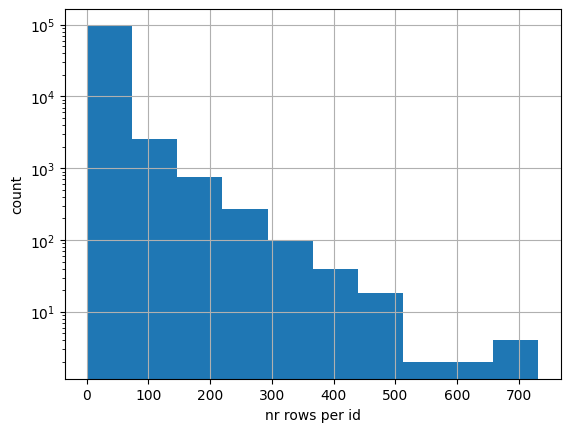
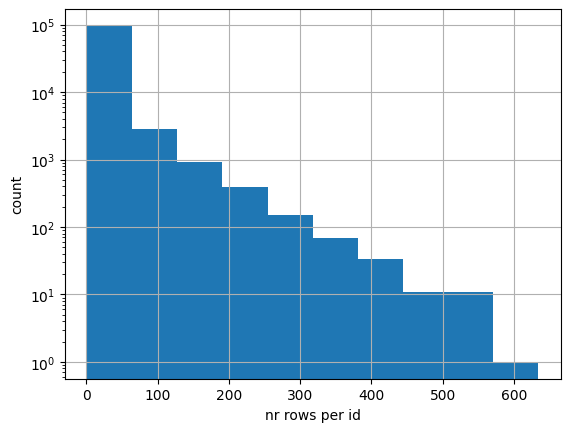
make load balancing reproducible

diff --git a/docs/posts/load_balancing_spark.html b/docs/posts/load_balancing_spark.html
@@ -357,7 +357,7 @@ gtag('config', 'G-DEDM5V9GGM', { 'anonymize_ip': true});
 <section id="create-data" class="level2">
 <h2 class="anchored" data-anchor-id="create-data">Create data</h2>
 <p>Let’s first create some artificial data with large data skew; many ‘id’ values only have a few rows and vice versa. In real life this could for example be many clients that buy a few products and few clients buy a lot of products. I use the gamma distribution to create this synthetic dataset.</p>
-<div id="1788f947-2025-4cb9-b0f6-229a8b51bc32" class="cell" data-quarto-private-1="{&quot;key&quot;:&quot;execution&quot;,&quot;value&quot;:{&quot;iopub.execute_input&quot;:&quot;2025-12-14T13:15:55.019164Z&quot;,&quot;iopub.status.busy&quot;:&quot;2025-12-14T13:15:55.018999Z&quot;,&quot;iopub.status.idle&quot;:&quot;2025-12-14T13:15:57.083873Z&quot;,&quot;shell.execute_reply&quot;:&quot;2025-12-14T13:15:57.083375Z&quot;,&quot;shell.execute_reply.started&quot;:&quot;2025-12-14T13:15:55.019145Z&quot;}}" data-execution_count="4">
+<div id="1788f947-2025-4cb9-b0f6-229a8b51bc32" class="cell" data-quarto-private-1="{&quot;key&quot;:&quot;execution&quot;,&quot;value&quot;:{&quot;iopub.execute_input&quot;:&quot;2026-04-23T12:18:12.501378Z&quot;,&quot;iopub.status.busy&quot;:&quot;2026-04-23T12:18:12.501160Z&quot;,&quot;iopub.status.idle&quot;:&quot;2026-04-23T12:18:13.192596Z&quot;,&quot;shell.execute_reply&quot;:&quot;2026-04-23T12:18:13.191843Z&quot;,&quot;shell.execute_reply.started&quot;:&quot;2026-04-23T12:18:12.501362Z&quot;}}" data-execution_count="30">
 <div class="code-copy-outer-scaffold"><div class="sourceCode cell-code" id="cb1"><pre class="sourceCode python code-with-copy"><code class="sourceCode python"><span id="cb1-1"><a href="#cb1-1" aria-hidden="true" tabindex="-1"></a><span class="im">import</span> matplotlib.pyplot <span class="im">as</span> plt</span>
 <span id="cb1-2"><a href="#cb1-2" aria-hidden="true" tabindex="-1"></a><span class="im">from</span> scipy.stats <span class="im">import</span> gamma</span>
 <span id="cb1-3"><a href="#cb1-3" aria-hidden="true" tabindex="-1"></a></span>
@@ -367,7 +367,7 @@ gtag('config', 'G-DEDM5V9GGM', { 'anonymize_ip': true});
 <span id="cb1-7"><a href="#cb1-7" aria-hidden="true" tabindex="-1"></a>                  columns<span class="op">=</span>[<span class="st">'id'</span>])</span></code></pre></div><button title="Copy to Clipboard" class="code-copy-button"><i class="bi"></i></button></div>
 </div>
 <p>Below we can see the distribution of the number of rows per id. Note that the vertical axis is in log scale.</p>
-<div id="b0f46354-f908-454f-9a21-15af949abc16" class="cell" data-quarto-private-1="{&quot;key&quot;:&quot;execution&quot;,&quot;value&quot;:{&quot;iopub.execute_input&quot;:&quot;2025-12-14T13:15:57.086450Z&quot;,&quot;iopub.status.busy&quot;:&quot;2025-12-14T13:15:57.086142Z&quot;,&quot;iopub.status.idle&quot;:&quot;2025-12-14T13:15:57.601090Z&quot;,&quot;shell.execute_reply&quot;:&quot;2025-12-14T13:15:57.600709Z&quot;,&quot;shell.execute_reply.started&quot;:&quot;2025-12-14T13:15:57.086433Z&quot;}}" data-execution_count="5">
+<div id="b0f46354-f908-454f-9a21-15af949abc16" class="cell" data-quarto-private-1="{&quot;key&quot;:&quot;execution&quot;,&quot;value&quot;:{&quot;iopub.execute_input&quot;:&quot;2026-04-23T12:18:13.193943Z&quot;,&quot;iopub.status.busy&quot;:&quot;2026-04-23T12:18:13.193765Z&quot;,&quot;iopub.status.idle&quot;:&quot;2026-04-23T12:18:13.639817Z&quot;,&quot;shell.execute_reply&quot;:&quot;2026-04-23T12:18:13.638283Z&quot;,&quot;shell.execute_reply.started&quot;:&quot;2026-04-23T12:18:13.193927Z&quot;}}" data-execution_count="31">
 <div class="cell-output cell-output-display">
 <div>
 <figure class="figure">
@@ -377,17 +377,17 @@ gtag('config', 'G-DEDM5V9GGM', { 'anonymize_ip': true});
 </div>
 </div>
 <p>Now we create a Spark dataframe from this Pandas dataframe and repartition it to 200 partitions, Spark’s default value when doing transformations.</p>
-<div id="24696a47-9391-47ec-9352-94da20456f76" class="cell" data-quarto-private-1="{&quot;key&quot;:&quot;execution&quot;,&quot;value&quot;:{&quot;iopub.execute_input&quot;:&quot;2025-12-14T14:21:40.036022Z&quot;,&quot;iopub.status.busy&quot;:&quot;2025-12-14T14:21:40.035526Z&quot;,&quot;iopub.status.idle&quot;:&quot;2025-12-14T14:21:49.179953Z&quot;,&quot;shell.execute_reply&quot;:&quot;2025-12-14T14:21:49.179424Z&quot;,&quot;shell.execute_reply.started&quot;:&quot;2025-12-14T14:21:40.035983Z&quot;}}" data-execution_count="52">
+<div id="24696a47-9391-47ec-9352-94da20456f76" class="cell" data-quarto-private-1="{&quot;key&quot;:&quot;execution&quot;,&quot;value&quot;:{&quot;iopub.execute_input&quot;:&quot;2026-04-23T12:18:13.640900Z&quot;,&quot;iopub.status.busy&quot;:&quot;2026-04-23T12:18:13.640734Z&quot;,&quot;iopub.status.idle&quot;:&quot;2026-04-23T12:18:22.989286Z&quot;,&quot;shell.execute_reply&quot;:&quot;2026-04-23T12:18:22.987225Z&quot;,&quot;shell.execute_reply.started&quot;:&quot;2026-04-23T12:18:13.640884Z&quot;}}" data-execution_count="32">
 <div class="code-copy-outer-scaffold"><div class="sourceCode cell-code" id="cb2"><pre class="sourceCode python code-with-copy"><code class="sourceCode python"><span id="cb2-1"><a href="#cb2-1" aria-hidden="true" tabindex="-1"></a>sdf <span class="op">=</span> spark.createDataFrame(df)</span>
 <span id="cb2-2"><a href="#cb2-2" aria-hidden="true" tabindex="-1"></a>sdf <span class="op">=</span> sdf.repartition(<span class="dv">200</span>)</span></code></pre></div><button title="Copy to Clipboard" class="code-copy-button"><i class="bi"></i></button></div>
 </div>
 <p>Let’s see how the number of partitions per id are distributed. The function <code>spark_partition_id</code> gives the partition id for each row. The histogram below shows that there are quite some ids (clients) that have their rows (products) divided over many partitions. When doing a groupby or join operation on the id key, a lot of shuffling is required. It is more efficient if we could divide the rows such that the ones with the same id value are in the same partition.</p>
-<div id="16330202-7c50-48b8-bc1d-ac1efa8ae079" class="cell" data-quarto-private-1="{&quot;key&quot;:&quot;execution&quot;,&quot;value&quot;:{&quot;iopub.execute_input&quot;:&quot;2025-12-14T14:21:49.181042Z&quot;,&quot;iopub.status.busy&quot;:&quot;2025-12-14T14:21:49.180898Z&quot;,&quot;iopub.status.idle&quot;:&quot;2025-12-14T14:21:49.206588Z&quot;,&quot;shell.execute_reply&quot;:&quot;2025-12-14T14:21:49.206210Z&quot;,&quot;shell.execute_reply.started&quot;:&quot;2025-12-14T14:21:49.181027Z&quot;}}" data-execution_count="53">
+<div id="16330202-7c50-48b8-bc1d-ac1efa8ae079" class="cell" data-quarto-private-1="{&quot;key&quot;:&quot;execution&quot;,&quot;value&quot;:{&quot;iopub.execute_input&quot;:&quot;2026-04-23T12:18:22.990848Z&quot;,&quot;iopub.status.busy&quot;:&quot;2026-04-23T12:18:22.990636Z&quot;,&quot;iopub.status.idle&quot;:&quot;2026-04-23T12:18:23.005082Z&quot;,&quot;shell.execute_reply&quot;:&quot;2026-04-23T12:18:23.004578Z&quot;,&quot;shell.execute_reply.started&quot;:&quot;2026-04-23T12:18:22.990828Z&quot;}}" data-execution_count="33">
 <div class="code-copy-outer-scaffold"><div class="sourceCode cell-code" id="cb3"><pre class="sourceCode python code-with-copy"><code class="sourceCode python"><span id="cb3-1"><a href="#cb3-1" aria-hidden="true" tabindex="-1"></a><span class="im">from</span> pyspark.sql <span class="im">import</span> functions <span class="im">as</span> F</span>
 <span id="cb3-2"><a href="#cb3-2" aria-hidden="true" tabindex="-1"></a></span>
 <span id="cb3-3"><a href="#cb3-3" aria-hidden="true" tabindex="-1"></a>sdf <span class="op">=</span> sdf.withColumn(<span class="st">'partition_id'</span>, F.spark_partition_id())</span></code></pre></div><button title="Copy to Clipboard" class="code-copy-button"><i class="bi"></i></button></div>
 </div>
-<div id="5aa72574-4880-4437-8190-5698c898d8bb" class="cell" data-quarto-private-1="{&quot;key&quot;:&quot;execution&quot;,&quot;value&quot;:{&quot;iopub.execute_input&quot;:&quot;2025-12-14T13:16:31.300392Z&quot;,&quot;iopub.status.busy&quot;:&quot;2025-12-14T13:16:31.300196Z&quot;,&quot;iopub.status.idle&quot;:&quot;2025-12-14T13:16:31.510057Z&quot;,&quot;shell.execute_reply&quot;:&quot;2025-12-14T13:16:31.509664Z&quot;,&quot;shell.execute_reply.started&quot;:&quot;2025-12-14T13:16:31.300371Z&quot;}}" data-execution_count="9">
+<div id="5aa72574-4880-4437-8190-5698c898d8bb" class="cell" data-quarto-private-1="{&quot;key&quot;:&quot;execution&quot;,&quot;value&quot;:{&quot;iopub.execute_input&quot;:&quot;2026-04-23T12:18:33.950523Z&quot;,&quot;iopub.status.busy&quot;:&quot;2026-04-23T12:18:33.949349Z&quot;,&quot;iopub.status.idle&quot;:&quot;2026-04-23T12:18:34.166272Z&quot;,&quot;shell.execute_reply&quot;:&quot;2026-04-23T12:18:34.165914Z&quot;,&quot;shell.execute_reply.started&quot;:&quot;2026-04-23T12:18:33.950500Z&quot;}}" data-execution_count="35">
 <div class="cell-output cell-output-display">
 <div>
 <figure class="figure">
@@ -401,38 +401,38 @@ gtag('config', 'G-DEDM5V9GGM', { 'anonymize_ip': true});
 <h2 class="anchored" data-anchor-id="load-balancing">Load balancing</h2>
 <p>To divide rows over the partitions such that partitions are equally large and rows with the same id are on the same partion as much as possible, we use a greedy load balancing algorithm. A heap queue can be used to implement such algorithm. A heap is a data structure that efficiently keeps its elements sorted. If you want to learn more about heaps, I recommend a clear explanation in this <a href="https://www.youtube.com/watch?v=XycnarZEBvQ">video</a>.</p>
 <p>In Python, heap queues are implemented by the <code>heapq</code> library. Python distributions like Anaconda include <code>heapq</code> so most likely you don’t need to install it yourself as you already have it.</p>
-<div id="2b975302-228a-4d49-977d-b22b8f1a2460" class="cell" data-quarto-private-1="{&quot;key&quot;:&quot;execution&quot;,&quot;value&quot;:{&quot;iopub.execute_input&quot;:&quot;2025-12-14T13:21:24.232007Z&quot;,&quot;iopub.status.busy&quot;:&quot;2025-12-14T13:21:24.229985Z&quot;,&quot;iopub.status.idle&quot;:&quot;2025-12-14T13:21:24.252384Z&quot;,&quot;shell.execute_reply&quot;:&quot;2025-12-14T13:21:24.251248Z&quot;,&quot;shell.execute_reply.started&quot;:&quot;2025-12-14T13:21:24.231922Z&quot;}}" data-execution_count="10">
+<div id="2b975302-228a-4d49-977d-b22b8f1a2460" class="cell" data-quarto-private-1="{&quot;key&quot;:&quot;execution&quot;,&quot;value&quot;:{&quot;iopub.execute_input&quot;:&quot;2026-04-23T12:18:34.166893Z&quot;,&quot;iopub.status.busy&quot;:&quot;2026-04-23T12:18:34.166774Z&quot;,&quot;iopub.status.idle&quot;:&quot;2026-04-23T12:18:34.169000Z&quot;,&quot;shell.execute_reply&quot;:&quot;2026-04-23T12:18:34.168681Z&quot;,&quot;shell.execute_reply.started&quot;:&quot;2026-04-23T12:18:34.166880Z&quot;}}" data-execution_count="36">
 <div class="code-copy-outer-scaffold"><div class="sourceCode cell-code" id="cb4"><pre class="sourceCode python code-with-copy"><code class="sourceCode python"><span id="cb4-1"><a href="#cb4-1" aria-hidden="true" tabindex="-1"></a><span class="im">import</span> heapq</span></code></pre></div><button title="Copy to Clipboard" class="code-copy-button"><i class="bi"></i></button></div>
 </div>
 <p>First, we need to count the number of rows per id. We collect the results to local memory as this is the data we’re going to use for our heap:</p>
-<div id="996a3bc7-b040-49da-b863-f36497f483e1" class="cell" data-quarto-private-1="{&quot;key&quot;:&quot;execution&quot;,&quot;value&quot;:{&quot;iopub.execute_input&quot;:&quot;2025-12-14T13:21:26.035371Z&quot;,&quot;iopub.status.busy&quot;:&quot;2025-12-14T13:21:26.034883Z&quot;,&quot;iopub.status.idle&quot;:&quot;2025-12-14T13:21:39.356082Z&quot;,&quot;shell.execute_reply&quot;:&quot;2025-12-14T13:21:39.355678Z&quot;,&quot;shell.execute_reply.started&quot;:&quot;2025-12-14T13:21:26.035332Z&quot;}}" data-execution_count="11">
+<div id="996a3bc7-b040-49da-b863-f36497f483e1" class="cell" data-quarto-private-1="{&quot;key&quot;:&quot;execution&quot;,&quot;value&quot;:{&quot;iopub.execute_input&quot;:&quot;2026-04-23T12:18:34.169848Z&quot;,&quot;iopub.status.busy&quot;:&quot;2026-04-23T12:18:34.169732Z&quot;,&quot;iopub.status.idle&quot;:&quot;2026-04-23T12:18:42.654050Z&quot;,&quot;shell.execute_reply&quot;:&quot;2026-04-23T12:18:42.653649Z&quot;,&quot;shell.execute_reply.started&quot;:&quot;2026-04-23T12:18:34.169835Z&quot;}}" data-execution_count="37">
 <div class="code-copy-outer-scaffold"><div class="sourceCode cell-code" id="cb5"><pre class="sourceCode python code-with-copy"><code class="sourceCode python"><span id="cb5-1"><a href="#cb5-1" aria-hidden="true" tabindex="-1"></a>id_counts <span class="op">=</span> sdf.groupby(<span class="st">'id'</span>).count().collect()</span>
 <span id="cb5-2"><a href="#cb5-2" aria-hidden="true" tabindex="-1"></a>id_counts[:<span class="dv">3</span>]</span></code></pre></div><button title="Copy to Clipboard" class="code-copy-button"><i class="bi"></i></button></div>
 <div class="cell-output cell-output-stderr">
 <pre><code>                                                                                </code></pre>
 </div>
-<div class="cell-output cell-output-display" data-execution_count="11">
-<pre><code>[Row(id='2088', count=127),
- Row(id='8304', count=113),
- Row(id='7252', count=95)]</code></pre>
+<div class="cell-output cell-output-display" data-execution_count="37">
+<pre><code>[Row(id='3606', count=306),
+ Row(id='9009', count=24),
+ Row(id='11078', count=180)]</code></pre>
 </div>
 </div>
-<p>For the load balancing algoritm, we want to start with the id that has most rows. Therefore we sort the array of id counts in descending order:</p>
-<div id="5ff5481b-4c31-4d31-962d-8b5ffbf6d584" class="cell" data-quarto-private-1="{&quot;key&quot;:&quot;execution&quot;,&quot;value&quot;:{&quot;iopub.execute_input&quot;:&quot;2025-12-14T13:26:25.785814Z&quot;,&quot;iopub.status.busy&quot;:&quot;2025-12-14T13:26:25.783914Z&quot;,&quot;iopub.status.idle&quot;:&quot;2025-12-14T13:26:25.891975Z&quot;,&quot;shell.execute_reply&quot;:&quot;2025-12-14T13:26:25.891472Z&quot;,&quot;shell.execute_reply.started&quot;:&quot;2025-12-14T13:26:25.785714Z&quot;}}" data-scrolled="true" data-execution_count="17">
-<div class="code-copy-outer-scaffold"><div class="sourceCode cell-code" id="cb8"><pre class="sourceCode python code-with-copy"><code class="sourceCode python"><span id="cb8-1"><a href="#cb8-1" aria-hidden="true" tabindex="-1"></a>id_counts_sorted <span class="op">=</span> <span class="bu">sorted</span>(id_counts, key<span class="op">=</span><span class="kw">lambda</span> x: x[<span class="st">'count'</span>], reverse<span class="op">=</span><span class="va">True</span>)</span></code></pre></div><button title="Copy to Clipboard" class="code-copy-button"><i class="bi"></i></button></div>
+<p>For the load balancing algoritm, we want to start with the id that has most rows. Therefore we sort the array of id counts in descending order. We add the ‘id’ column when sorting to assure reproducible results across runs; there can be more IDs with the same number of rows:</p>
+<div id="5ff5481b-4c31-4d31-962d-8b5ffbf6d584" class="cell" data-quarto-private-1="{&quot;key&quot;:&quot;execution&quot;,&quot;value&quot;:{&quot;iopub.execute_input&quot;:&quot;2026-04-23T12:18:42.654884Z&quot;,&quot;iopub.status.busy&quot;:&quot;2026-04-23T12:18:42.654739Z&quot;,&quot;iopub.status.idle&quot;:&quot;2026-04-23T12:18:42.936409Z&quot;,&quot;shell.execute_reply&quot;:&quot;2026-04-23T12:18:42.935915Z&quot;,&quot;shell.execute_reply.started&quot;:&quot;2026-04-23T12:18:42.654869Z&quot;}}" data-scrolled="true" data-execution_count="38">
+<div class="code-copy-outer-scaffold"><div class="sourceCode cell-code" id="cb8"><pre class="sourceCode python code-with-copy"><code class="sourceCode python"><span id="cb8-1"><a href="#cb8-1" aria-hidden="true" tabindex="-1"></a>id_counts_sorted <span class="op">=</span> <span class="bu">sorted</span>(id_counts, key<span class="op">=</span><span class="kw">lambda</span> x: (x[<span class="st">'count'</span>], x[<span class="st">'id'</span>]), reverse<span class="op">=</span><span class="va">True</span>)</span></code></pre></div><button title="Copy to Clipboard" class="code-copy-button"><i class="bi"></i></button></div>
 </div>
 <p>Now let’s say we want to create 50 batches which we later can use for partitioning our dataframe. Each batch will be one partition. In reality it’s more likely you will use a larger number, but for visualisation purposes we limit it to 50. We create a heap where the elements are tuples containing the load as first entry and the batch number as second entry. The heap is initialised with all 50 batches having zero load.</p>
 <p>To fill the batches with ids, we loop over the ids that are now sorted from largest to smallest. With the <code>heappop</code> function we remove the element from the heap with the smallest load (first entry of the tuple) and assign it to the variables <code>load</code> and <code>batch</code>. At the start of the process all elements in the heap are equal as they’re empty. In the dictionary <code>id_to_batch</code> we keep track of which id is assigned to with batch. After this assignment is done, we use <code>heappush</code> to add the element for the current batch back to the heap, but now with the added load. We iterate over all ids.</p>
-<div id="20950112-8030-4fb2-b86a-091aa38b6c24" class="cell" data-quarto-private-1="{&quot;key&quot;:&quot;execution&quot;,&quot;value&quot;:{&quot;iopub.execute_input&quot;:&quot;2025-12-14T13:43:58.560567Z&quot;,&quot;iopub.status.busy&quot;:&quot;2025-12-14T13:43:58.559664Z&quot;,&quot;iopub.status.idle&quot;:&quot;2025-12-14T13:43:58.566675Z&quot;,&quot;shell.execute_reply&quot;:&quot;2025-12-14T13:43:58.564865Z&quot;,&quot;shell.execute_reply.started&quot;:&quot;2025-12-14T13:43:58.560491Z&quot;}}" data-execution_count="19">
+<div id="20950112-8030-4fb2-b86a-091aa38b6c24" class="cell" data-quarto-private-1="{&quot;key&quot;:&quot;execution&quot;,&quot;value&quot;:{&quot;iopub.execute_input&quot;:&quot;2026-04-23T12:18:42.937112Z&quot;,&quot;iopub.status.busy&quot;:&quot;2026-04-23T12:18:42.936973Z&quot;,&quot;iopub.status.idle&quot;:&quot;2026-04-23T12:18:42.939266Z&quot;,&quot;shell.execute_reply&quot;:&quot;2026-04-23T12:18:42.938864Z&quot;,&quot;shell.execute_reply.started&quot;:&quot;2026-04-23T12:18:42.937098Z&quot;}}" data-execution_count="39">
 <div class="code-copy-outer-scaffold"><div class="sourceCode cell-code" id="cb9"><pre class="sourceCode python code-with-copy"><code class="sourceCode python"><span id="cb9-1"><a href="#cb9-1" aria-hidden="true" tabindex="-1"></a>num_batches <span class="op">=</span> <span class="dv">50</span></span></code></pre></div><button title="Copy to Clipboard" class="code-copy-button"><i class="bi"></i></button></div>
 </div>
-<div id="0315f731-6d26-4fd9-98e4-24d9552a149c" class="cell" data-quarto-private-1="{&quot;key&quot;:&quot;execution&quot;,&quot;value&quot;:{&quot;iopub.execute_input&quot;:&quot;2025-12-14T13:43:58.744191Z&quot;,&quot;iopub.status.busy&quot;:&quot;2025-12-14T13:43:58.743608Z&quot;,&quot;iopub.status.idle&quot;:&quot;2025-12-14T13:43:58.749676Z&quot;,&quot;shell.execute_reply&quot;:&quot;2025-12-14T13:43:58.748260Z&quot;,&quot;shell.execute_reply.started&quot;:&quot;2025-12-14T13:43:58.744147Z&quot;}}" data-execution_count="20">
+<div id="0315f731-6d26-4fd9-98e4-24d9552a149c" class="cell" data-quarto-private-1="{&quot;key&quot;:&quot;execution&quot;,&quot;value&quot;:{&quot;iopub.execute_input&quot;:&quot;2026-04-23T12:18:42.941514Z&quot;,&quot;iopub.status.busy&quot;:&quot;2026-04-23T12:18:42.941358Z&quot;,&quot;iopub.status.idle&quot;:&quot;2026-04-23T12:18:42.944283Z&quot;,&quot;shell.execute_reply&quot;:&quot;2026-04-23T12:18:42.943503Z&quot;,&quot;shell.execute_reply.started&quot;:&quot;2026-04-23T12:18:42.941500Z&quot;}}" data-execution_count="40">
 <div class="code-copy-outer-scaffold"><div class="sourceCode cell-code" id="cb10"><pre class="sourceCode python code-with-copy"><code class="sourceCode python"><span id="cb10-1"><a href="#cb10-1" aria-hidden="true" tabindex="-1"></a>heap <span class="op">=</span> [(<span class="dv">0</span>,i) <span class="cf">for</span> i <span class="kw">in</span> <span class="bu">range</span>(num_batches)]</span></code></pre></div><button title="Copy to Clipboard" class="code-copy-button"><i class="bi"></i></button></div>
 </div>
-<div id="ecfac606-ccca-47a9-9506-02ae9b359c7c" class="cell" data-quarto-private-1="{&quot;key&quot;:&quot;execution&quot;,&quot;value&quot;:{&quot;iopub.execute_input&quot;:&quot;2025-12-14T13:43:58.848337Z&quot;,&quot;iopub.status.busy&quot;:&quot;2025-12-14T13:43:58.847426Z&quot;,&quot;iopub.status.idle&quot;:&quot;2025-12-14T13:43:58.853797Z&quot;,&quot;shell.execute_reply&quot;:&quot;2025-12-14T13:43:58.852559Z&quot;,&quot;shell.execute_reply.started&quot;:&quot;2025-12-14T13:43:58.848255Z&quot;}}" data-execution_count="21">
+<div id="ecfac606-ccca-47a9-9506-02ae9b359c7c" class="cell" data-quarto-private-1="{&quot;key&quot;:&quot;execution&quot;,&quot;value&quot;:{&quot;iopub.execute_input&quot;:&quot;2026-04-23T12:18:42.945103Z&quot;,&quot;iopub.status.busy&quot;:&quot;2026-04-23T12:18:42.944873Z&quot;,&quot;iopub.status.idle&quot;:&quot;2026-04-23T12:18:42.948194Z&quot;,&quot;shell.execute_reply&quot;:&quot;2026-04-23T12:18:42.947428Z&quot;,&quot;shell.execute_reply.started&quot;:&quot;2026-04-23T12:18:42.945087Z&quot;}}" data-execution_count="41">
 <div class="code-copy-outer-scaffold"><div class="sourceCode cell-code" id="cb11"><pre class="sourceCode python code-with-copy"><code class="sourceCode python"><span id="cb11-1"><a href="#cb11-1" aria-hidden="true" tabindex="-1"></a>heapq.heapify(heap)</span></code></pre></div><button title="Copy to Clipboard" class="code-copy-button"><i class="bi"></i></button></div>
 </div>
-<div id="dad2eab8-5816-4aeb-bfc5-d82b27cd20ea" class="cell" data-quarto-private-1="{&quot;key&quot;:&quot;execution&quot;,&quot;value&quot;:{&quot;iopub.execute_input&quot;:&quot;2025-12-14T13:43:59.213741Z&quot;,&quot;iopub.status.busy&quot;:&quot;2025-12-14T13:43:59.213252Z&quot;,&quot;iopub.status.idle&quot;:&quot;2025-12-14T13:43:59.401012Z&quot;,&quot;shell.execute_reply&quot;:&quot;2025-12-14T13:43:59.400565Z&quot;,&quot;shell.execute_reply.started&quot;:&quot;2025-12-14T13:43:59.213701Z&quot;}}" data-execution_count="22">
+<div id="dad2eab8-5816-4aeb-bfc5-d82b27cd20ea" class="cell" data-quarto-private-1="{&quot;key&quot;:&quot;execution&quot;,&quot;value&quot;:{&quot;iopub.execute_input&quot;:&quot;2026-04-23T12:18:42.948823Z&quot;,&quot;iopub.status.busy&quot;:&quot;2026-04-23T12:18:42.948677Z&quot;,&quot;iopub.status.idle&quot;:&quot;2026-04-23T12:18:43.138493Z&quot;,&quot;shell.execute_reply&quot;:&quot;2026-04-23T12:18:43.138049Z&quot;,&quot;shell.execute_reply.started&quot;:&quot;2026-04-23T12:18:42.948808Z&quot;}}" data-execution_count="42">
 <div class="code-copy-outer-scaffold"><div class="sourceCode cell-code" id="cb12"><pre class="sourceCode python code-with-copy"><code class="sourceCode python"><span id="cb12-1"><a href="#cb12-1" aria-hidden="true" tabindex="-1"></a>id_to_batch <span class="op">=</span> {}</span>
 <span id="cb12-2"><a href="#cb12-2" aria-hidden="true" tabindex="-1"></a><span class="cf">for</span> row <span class="kw">in</span> id_counts_sorted:</span>
 <span id="cb12-3"><a href="#cb12-3" aria-hidden="true" tabindex="-1"></a>    count <span class="op">=</span> row[<span class="st">'count'</span>]</span>
@@ -444,16 +444,16 @@ gtag('config', 'G-DEDM5V9GGM', { 'anonymize_ip': true});
 <p>The animation below shows how each of the 50 batches is filled until all ids are assigned.</p>
 <p><img src="load_balancing_animiation.gif" class="img-fluid"></p>
 <p>Let’s now create a Spark dataframe from the load balancing algorithm result and join it to the original dataframe. This adds the ‘batch’ column that we can use to repartition the dataframe.</p>
-<div id="e3c82090-f893-45be-9e07-49b8c2254a82" class="cell" data-quarto-private-1="{&quot;key&quot;:&quot;execution&quot;,&quot;value&quot;:{&quot;iopub.execute_input&quot;:&quot;2025-12-14T13:46:50.499381Z&quot;,&quot;iopub.status.busy&quot;:&quot;2025-12-14T13:46:50.498890Z&quot;,&quot;iopub.status.idle&quot;:&quot;2025-12-14T13:46:51.624707Z&quot;,&quot;shell.execute_reply&quot;:&quot;2025-12-14T13:46:51.624283Z&quot;,&quot;shell.execute_reply.started&quot;:&quot;2025-12-14T13:46:50.499341Z&quot;}}" data-execution_count="36">
+<div id="e3c82090-f893-45be-9e07-49b8c2254a82" class="cell" data-quarto-private-1="{&quot;key&quot;:&quot;execution&quot;,&quot;value&quot;:{&quot;iopub.execute_input&quot;:&quot;2026-04-23T12:18:43.139103Z&quot;,&quot;iopub.status.busy&quot;:&quot;2026-04-23T12:18:43.138972Z&quot;,&quot;iopub.status.idle&quot;:&quot;2026-04-23T12:18:44.335226Z&quot;,&quot;shell.execute_reply&quot;:&quot;2026-04-23T12:18:44.334825Z&quot;,&quot;shell.execute_reply.started&quot;:&quot;2026-04-23T12:18:43.139089Z&quot;}}" data-execution_count="43">
 <div class="code-copy-outer-scaffold"><div class="sourceCode cell-code" id="cb13"><pre class="sourceCode python code-with-copy"><code class="sourceCode python"><span id="cb13-1"><a href="#cb13-1" aria-hidden="true" tabindex="-1"></a>id_to_batch_sdf <span class="op">=</span> spark.createDataFrame(<span class="bu">list</span>(<span class="bu">zip</span>(id_to_batch.keys(),</span>
 <span id="cb13-2"><a href="#cb13-2" aria-hidden="true" tabindex="-1"></a>                                                 id_to_batch.values())),</span>
 <span id="cb13-3"><a href="#cb13-3" aria-hidden="true" tabindex="-1"></a>                                        schema<span class="op">=</span>[<span class="st">'id'</span>, <span class="st">'batch'</span>])</span></code></pre></div><button title="Copy to Clipboard" class="code-copy-button"><i class="bi"></i></button></div>
 </div>
-<div id="085555fc-38b4-4088-a1b4-abcf41aeb745" class="cell" data-quarto-private-1="{&quot;key&quot;:&quot;execution&quot;,&quot;value&quot;:{&quot;iopub.execute_input&quot;:&quot;2025-12-14T13:46:51.625655Z&quot;,&quot;iopub.status.busy&quot;:&quot;2025-12-14T13:46:51.625533Z&quot;,&quot;iopub.status.idle&quot;:&quot;2025-12-14T13:46:51.716511Z&quot;,&quot;shell.execute_reply&quot;:&quot;2025-12-14T13:46:51.716067Z&quot;,&quot;shell.execute_reply.started&quot;:&quot;2025-12-14T13:46:51.625642Z&quot;}}" data-execution_count="37">
+<div id="085555fc-38b4-4088-a1b4-abcf41aeb745" class="cell" data-quarto-private-1="{&quot;key&quot;:&quot;execution&quot;,&quot;value&quot;:{&quot;iopub.execute_input&quot;:&quot;2026-04-23T12:18:44.336036Z&quot;,&quot;iopub.status.busy&quot;:&quot;2026-04-23T12:18:44.335893Z&quot;,&quot;iopub.status.idle&quot;:&quot;2026-04-23T12:18:44.364141Z&quot;,&quot;shell.execute_reply&quot;:&quot;2026-04-23T12:18:44.363729Z&quot;,&quot;shell.execute_reply.started&quot;:&quot;2026-04-23T12:18:44.336022Z&quot;}}" data-execution_count="44">
 <div class="code-copy-outer-scaffold"><div class="sourceCode cell-code" id="cb14"><pre class="sourceCode python code-with-copy"><code class="sourceCode python"><span id="cb14-1"><a href="#cb14-1" aria-hidden="true" tabindex="-1"></a>sdf_with_batch <span class="op">=</span> sdf.join(id_to_batch_sdf, on<span class="op">=</span><span class="st">'id'</span>)</span></code></pre></div><button title="Copy to Clipboard" class="code-copy-button"><i class="bi"></i></button></div>
 </div>
 <p>First, we verify that we achieved our goals: equal size of the partitions and same ids (as much as possible) in the same batch (partition). I show below the all batches are indeed of equal size.</p>
-<div id="dd05c335-c7ba-494a-92f9-5ccb7597a557" class="cell" data-quarto-private-1="{&quot;key&quot;:&quot;execution&quot;,&quot;value&quot;:{&quot;iopub.execute_input&quot;:&quot;2025-12-14T13:47:55.703337Z&quot;,&quot;iopub.status.busy&quot;:&quot;2025-12-14T13:47:55.702726Z&quot;,&quot;iopub.status.idle&quot;:&quot;2025-12-14T13:48:07.146133Z&quot;,&quot;shell.execute_reply&quot;:&quot;2025-12-14T13:48:07.145080Z&quot;,&quot;shell.execute_reply.started&quot;:&quot;2025-12-14T13:47:55.703292Z&quot;}}" data-execution_count="43">
+<div id="dd05c335-c7ba-494a-92f9-5ccb7597a557" class="cell" data-quarto-private-1="{&quot;key&quot;:&quot;execution&quot;,&quot;value&quot;:{&quot;iopub.execute_input&quot;:&quot;2026-04-23T12:18:44.364758Z&quot;,&quot;iopub.status.busy&quot;:&quot;2026-04-23T12:18:44.364636Z&quot;,&quot;iopub.status.idle&quot;:&quot;2026-04-23T12:18:52.690666Z&quot;,&quot;shell.execute_reply&quot;:&quot;2026-04-23T12:18:52.689878Z&quot;,&quot;shell.execute_reply.started&quot;:&quot;2026-04-23T12:18:44.364744Z&quot;}}" data-execution_count="45">
 <div class="code-copy-outer-scaffold"><div class="sourceCode cell-code" id="cb15"><pre class="sourceCode python code-with-copy"><code class="sourceCode python"><span id="cb15-1"><a href="#cb15-1" aria-hidden="true" tabindex="-1"></a>(sdf_with_batch.groupby(<span class="st">'batch'</span>).count()</span>
 <span id="cb15-2"><a href="#cb15-2" aria-hidden="true" tabindex="-1"></a>    .select(F.<span class="bu">min</span>(<span class="st">'count'</span>), F.<span class="bu">max</span>(<span class="st">'count'</span>))</span>
 <span id="cb15-3"><a href="#cb15-3" aria-hidden="true" tabindex="-1"></a>    .show())</span></code></pre></div><button title="Copy to Clipboard" class="code-copy-button"><i class="bi"></i></button></div>
@@ -464,13 +464,13 @@ gtag('config', 'G-DEDM5V9GGM', { 'anonymize_ip': true});
 <pre><code>+----------+----------+
 |min(count)|max(count)|
 +----------+----------+
-|     21311|     21311|
+|     21493|     21494|
 +----------+----------+
 </code></pre>
 </div>
 </div>
 <p>Moreover, we also see all ids are assigned to only a single batch.</p>
-<div id="80e6723b-015c-4438-b430-ec9ffb15850c" class="cell" data-quarto-private-1="{&quot;key&quot;:&quot;execution&quot;,&quot;value&quot;:{&quot;iopub.execute_input&quot;:&quot;2025-12-14T13:48:18.759847Z&quot;,&quot;iopub.status.busy&quot;:&quot;2025-12-14T13:48:18.759191Z&quot;,&quot;iopub.status.idle&quot;:&quot;2025-12-14T13:48:28.540090Z&quot;,&quot;shell.execute_reply&quot;:&quot;2025-12-14T13:48:28.537764Z&quot;,&quot;shell.execute_reply.started&quot;:&quot;2025-12-14T13:48:18.759749Z&quot;}}" data-execution_count="45">
+<div id="80e6723b-015c-4438-b430-ec9ffb15850c" class="cell" data-quarto-private-1="{&quot;key&quot;:&quot;execution&quot;,&quot;value&quot;:{&quot;iopub.execute_input&quot;:&quot;2026-04-23T12:18:52.692226Z&quot;,&quot;iopub.status.busy&quot;:&quot;2026-04-23T12:18:52.691959Z&quot;,&quot;iopub.status.idle&quot;:&quot;2026-04-23T12:19:01.329234Z&quot;,&quot;shell.execute_reply&quot;:&quot;2026-04-23T12:19:01.328341Z&quot;,&quot;shell.execute_reply.started&quot;:&quot;2026-04-23T12:18:52.692208Z&quot;}}" data-execution_count="46">
 <div class="code-copy-outer-scaffold"><div class="sourceCode cell-code" id="cb18"><pre class="sourceCode python code-with-copy"><code class="sourceCode python"><span id="cb18-1"><a href="#cb18-1" aria-hidden="true" tabindex="-1"></a>(sdf_with_batch.groupby(<span class="st">'id'</span>)</span>
 <span id="cb18-2"><a href="#cb18-2" aria-hidden="true" tabindex="-1"></a>    .agg(F.countDistinct(<span class="st">'batch'</span>).alias(<span class="st">'n_unique_batches'</span>))</span>
 <span id="cb18-3"><a href="#cb18-3" aria-hidden="true" tabindex="-1"></a>    .select(F.<span class="bu">min</span>(<span class="st">'n_unique_batches'</span>), F.<span class="bu">max</span>(<span class="st">'n_unique_batches'</span>))</span>
@@ -493,7 +493,7 @@ gtag('config', 'G-DEDM5V9GGM', { 'anonymize_ip': true});
 </section>
 <section id="all-in-one-go" class="level2">
 <h2 class="anchored" data-anchor-id="all-in-one-go">All in one go</h2>
-<div id="d45b9276-f808-4596-a172-88ba9d1a4e00" class="cell" data-quarto-private-1="{&quot;key&quot;:&quot;execution&quot;,&quot;value&quot;:{&quot;iopub.execute_input&quot;:&quot;2025-12-14T14:22:51.660827Z&quot;,&quot;iopub.status.busy&quot;:&quot;2025-12-14T14:22:51.657329Z&quot;,&quot;iopub.status.idle&quot;:&quot;2025-12-14T14:22:51.680018Z&quot;,&quot;shell.execute_reply&quot;:&quot;2025-12-14T14:22:51.678837Z&quot;,&quot;shell.execute_reply.started&quot;:&quot;2025-12-14T14:22:51.660706Z&quot;}}" data-execution_count="56">
+<div id="d45b9276-f808-4596-a172-88ba9d1a4e00" class="cell" data-quarto-private-1="{&quot;key&quot;:&quot;execution&quot;,&quot;value&quot;:{&quot;iopub.execute_input&quot;:&quot;2026-04-23T12:19:01.331511Z&quot;,&quot;iopub.status.busy&quot;:&quot;2026-04-23T12:19:01.331209Z&quot;,&quot;iopub.status.idle&quot;:&quot;2026-04-23T12:19:01.343696Z&quot;,&quot;shell.execute_reply&quot;:&quot;2026-04-23T12:19:01.342370Z&quot;,&quot;shell.execute_reply.started&quot;:&quot;2026-04-23T12:19:01.331489Z&quot;}}" data-execution_count="47">
 <div class="code-copy-outer-scaffold"><div class="sourceCode cell-code" id="cb21"><pre class="sourceCode python code-with-copy"><code class="sourceCode python"><span id="cb21-1"><a href="#cb21-1" aria-hidden="true" tabindex="-1"></a><span class="im">import</span> heapq</span>
 <span id="cb21-2"><a href="#cb21-2" aria-hidden="true" tabindex="-1"></a></span>
 <span id="cb21-3"><a href="#cb21-3" aria-hidden="true" tabindex="-1"></a></span>
@@ -512,26 +512,29 @@ gtag('config', 'G-DEDM5V9GGM', { 'anonymize_ip': true});
 <span id="cb21-16"><a href="#cb21-16" aria-hidden="true" tabindex="-1"></a></span>
 <span id="cb21-17"><a href="#cb21-17" aria-hidden="true" tabindex="-1"></a><span class="co">    """</span></span>
 <span id="cb21-18"><a href="#cb21-18" aria-hidden="true" tabindex="-1"></a>    id_counts <span class="op">=</span> sdf.groupby(id_column).count().collect()</span>
-<span id="cb21-19"><a href="#cb21-19" aria-hidden="true" tabindex="-1"></a>    id_counts_sorted <span class="op">=</span> <span class="bu">sorted</span>(id_counts, key<span class="op">=</span><span class="kw">lambda</span> x: x[<span class="st">'count'</span>], reverse<span class="op">=</span><span class="va">True</span>)</span>
-<span id="cb21-20"><a href="#cb21-20" aria-hidden="true" tabindex="-1"></a>    heap <span class="op">=</span> [(<span class="dv">0</span>, i) <span class="cf">for</span> i <span class="kw">in</span> <span class="bu">range</span>(num_batches)]</span>
-<span id="cb21-21"><a href="#cb21-21" aria-hidden="true" tabindex="-1"></a>    heapq.heapify(heap)</span>
-<span id="cb21-22"><a href="#cb21-22" aria-hidden="true" tabindex="-1"></a>    id_to_batch <span class="op">=</span> {}</span>
-<span id="cb21-23"><a href="#cb21-23" aria-hidden="true" tabindex="-1"></a>    <span class="cf">for</span> row <span class="kw">in</span> id_counts_sorted:</span>
-<span id="cb21-24"><a href="#cb21-24" aria-hidden="true" tabindex="-1"></a>        count <span class="op">=</span> row[<span class="st">'count'</span>]</span>
-<span id="cb21-25"><a href="#cb21-25" aria-hidden="true" tabindex="-1"></a>        id_ <span class="op">=</span> row[id_column]</span>
-<span id="cb21-26"><a href="#cb21-26" aria-hidden="true" tabindex="-1"></a>        load, batch <span class="op">=</span> heapq.heappop(heap)</span>
-<span id="cb21-27"><a href="#cb21-27" aria-hidden="true" tabindex="-1"></a>        id_to_batch[id_] <span class="op">=</span> batch</span>
-<span id="cb21-28"><a href="#cb21-28" aria-hidden="true" tabindex="-1"></a>        heapq.heappush(heap, (load <span class="op">+</span> count, batch))</span>
-<span id="cb21-29"><a href="#cb21-29" aria-hidden="true" tabindex="-1"></a></span>
-<span id="cb21-30"><a href="#cb21-30" aria-hidden="true" tabindex="-1"></a>    spark <span class="op">=</span> sdf.sparkSession</span>
-<span id="cb21-31"><a href="#cb21-31" aria-hidden="true" tabindex="-1"></a>    id_to_batch_sdf <span class="op">=</span> spark.createDataFrame(<span class="bu">list</span>(<span class="bu">zip</span>(id_to_batch.keys(),</span>
-<span id="cb21-32"><a href="#cb21-32" aria-hidden="true" tabindex="-1"></a>                                                     id_to_batch.values())),</span>
-<span id="cb21-33"><a href="#cb21-33" aria-hidden="true" tabindex="-1"></a>                                            schema<span class="op">=</span>[id_column, <span class="st">'batch'</span>])</span>
-<span id="cb21-34"><a href="#cb21-34" aria-hidden="true" tabindex="-1"></a>    <span class="cf">return</span> sdf.join(id_to_batch_sdf, on<span class="op">=</span>id_column)</span></code></pre></div><button title="Copy to Clipboard" class="code-copy-button"><i class="bi"></i></button></div>
+<span id="cb21-19"><a href="#cb21-19" aria-hidden="true" tabindex="-1"></a>    id_counts_sorted <span class="op">=</span> <span class="bu">sorted</span>(id_counts,</span>
+<span id="cb21-20"><a href="#cb21-20" aria-hidden="true" tabindex="-1"></a>                              key<span class="op">=</span><span class="kw">lambda</span> x: (x[<span class="st">'count'</span>], x[id_column]),</span>
+<span id="cb21-21"><a href="#cb21-21" aria-hidden="true" tabindex="-1"></a>                              reverse<span class="op">=</span><span class="va">True</span>)</span>
+<span id="cb21-22"><a href="#cb21-22" aria-hidden="true" tabindex="-1"></a>    heap <span class="op">=</span> [(<span class="dv">0</span>, i) <span class="cf">for</span> i <span class="kw">in</span> <span class="bu">range</span>(num_batches)]</span>
+<span id="cb21-23"><a href="#cb21-23" aria-hidden="true" tabindex="-1"></a>    heapq.heapify(heap)</span>
+<span id="cb21-24"><a href="#cb21-24" aria-hidden="true" tabindex="-1"></a>    id_to_batch <span class="op">=</span> {}</span>
+<span id="cb21-25"><a href="#cb21-25" aria-hidden="true" tabindex="-1"></a>    <span class="cf">for</span> row <span class="kw">in</span> id_counts_sorted:</span>
+<span id="cb21-26"><a href="#cb21-26" aria-hidden="true" tabindex="-1"></a>        count <span class="op">=</span> row[<span class="st">'count'</span>]</span>
+<span id="cb21-27"><a href="#cb21-27" aria-hidden="true" tabindex="-1"></a>        id_ <span class="op">=</span> row[id_column]</span>
+<span id="cb21-28"><a href="#cb21-28" aria-hidden="true" tabindex="-1"></a>        load, batch <span class="op">=</span> heapq.heappop(heap)</span>
+<span id="cb21-29"><a href="#cb21-29" aria-hidden="true" tabindex="-1"></a>        id_to_batch[id_] <span class="op">=</span> batch</span>
+<span id="cb21-30"><a href="#cb21-30" aria-hidden="true" tabindex="-1"></a>        heapq.heappush(heap, (load <span class="op">+</span> count, batch))</span>
+<span id="cb21-31"><a href="#cb21-31" aria-hidden="true" tabindex="-1"></a></span>
+<span id="cb21-32"><a href="#cb21-32" aria-hidden="true" tabindex="-1"></a>    spark <span class="op">=</span> sdf.sparkSession</span>
+<span id="cb21-33"><a href="#cb21-33" aria-hidden="true" tabindex="-1"></a>    id_to_batch_sdf <span class="op">=</span> spark.createDataFrame(<span class="bu">list</span>(<span class="bu">zip</span>(id_to_batch.keys(),</span>
+<span id="cb21-34"><a href="#cb21-34" aria-hidden="true" tabindex="-1"></a>                                                     id_to_batch.values())),</span>
+<span id="cb21-35"><a href="#cb21-35" aria-hidden="true" tabindex="-1"></a>                                            schema<span class="op">=</span>[id_column, <span class="st">'batch'</span>])</span>
+<span id="cb21-36"><a href="#cb21-36" aria-hidden="true" tabindex="-1"></a>    <span class="cf">return</span> sdf.join(id_to_batch_sdf, on<span class="op">=</span>id_column)</span></code></pre></div><button title="Copy to Clipboard" class="code-copy-button"><i class="bi"></i></button></div>
 </div>
-<div id="5bb36f70-d123-431f-afba-c779797e0e04" class="cell" data-quarto-private-1="{&quot;key&quot;:&quot;execution&quot;,&quot;value&quot;:{&quot;iopub.execute_input&quot;:&quot;2025-12-14T14:21:54.725405Z&quot;,&quot;iopub.status.busy&quot;:&quot;2025-12-14T14:21:54.724559Z&quot;,&quot;iopub.status.idle&quot;:&quot;2025-12-14T14:22:09.199815Z&quot;,&quot;shell.execute_reply&quot;:&quot;2025-12-14T14:22:09.199076Z&quot;,&quot;shell.execute_reply.started&quot;:&quot;2025-12-14T14:21:54.725329Z&quot;}}" data-execution_count="55">
+<div id="5bb36f70-d123-431f-afba-c779797e0e04" class="cell" data-quarto-private-1="{&quot;key&quot;:&quot;execution&quot;,&quot;value&quot;:{&quot;iopub.execute_input&quot;:&quot;2026-04-23T12:19:01.344904Z&quot;,&quot;iopub.status.busy&quot;:&quot;2026-04-23T12:19:01.344711Z&quot;,&quot;iopub.status.idle&quot;:&quot;2026-04-23T12:19:11.927184Z&quot;,&quot;shell.execute_reply&quot;:&quot;2026-04-23T12:19:11.926707Z&quot;,&quot;shell.execute_reply.started&quot;:&quot;2026-04-23T12:19:01.344886Z&quot;}}" data-execution_count="48">
 <div class="code-copy-outer-scaffold"><div class="sourceCode cell-code" id="cb22"><pre class="sourceCode python code-with-copy"><code class="sourceCode python"><span id="cb22-1"><a href="#cb22-1" aria-hidden="true" tabindex="-1"></a>sdf <span class="op">=</span> add_load_balancing_batch_col(sdf, id_column<span class="op">=</span><span class="st">'id'</span>, num_batches<span class="op">=</span><span class="dv">200</span>)</span></code></pre></div><button title="Copy to Clipboard" class="code-copy-button"><i class="bi"></i></button></div>
 </div>
+<p><em>Thanks to Stefan Filipescu for pointing me out the potential issue of lacking reproducibility</em></p>
 
 
 </section>

diff --git a/docs/posts/hard_to_classify_datapoints.html b/docs/posts/hard_to_classify_datapoints.html
@@ -475,7 +475,7 @@ Table&nbsp;1: Largest scores
 <div aria-describedby="tbl-ref-3-caption-0ceaefa1-69ba-4598-a22c-09a6ac19f8ca">
 <div class="quarto-layout-row">
 <div class="cell-output cell-output-display quarto-layout-cell-subref quarto-layout-cell" data-ref-parent="tbl-ref-3" style="flex-basis: 33.3%;justify-content: center;">
-<div id="tbl-ref-3-1" class="dataframe do-not-create-environment quarto-float quarto-figure quarto-figure-center anchored" data-border="1" data-quarto-postprocess="true">
+<div id="tbl-ref-3-1" class="dataframe do-not-create-environment quarto-float quarto-figure quarto-figure-center anchored" data-quarto-postprocess="true" data-border="1">
 <figure class="quarto-float quarto-subfloat-tbl figure">
 <figcaption class="quarto-float-caption-top quarto-subfloat-caption quarto-subfloat-tbl" id="tbl-ref-3-1-caption-0ceaefa1-69ba-4598-a22c-09a6ac19f8ca">
 (a)
@@ -516,7 +516,7 @@ Table&nbsp;1: Largest scores
 </div>
 </div>
 <div class="cell-output cell-output-display quarto-layout-cell-subref quarto-layout-cell" data-ref-parent="tbl-ref-3" style="flex-basis: 33.3%;justify-content: center;">
-<div id="tbl-ref-3-2" class="dataframe do-not-create-environment quarto-float quarto-figure quarto-figure-center anchored" data-border="1" data-quarto-postprocess="true">
+<div id="tbl-ref-3-2" class="dataframe do-not-create-environment quarto-float quarto-figure quarto-figure-center anchored" data-quarto-postprocess="true" data-border="1">
 <figure class="quarto-float quarto-subfloat-tbl figure">
 <figcaption class="quarto-float-caption-top quarto-subfloat-caption quarto-subfloat-tbl" id="tbl-ref-3-2-caption-0ceaefa1-69ba-4598-a22c-09a6ac19f8ca">
 (b)
@@ -557,7 +557,7 @@ Table&nbsp;1: Largest scores
 </div>
 </div>
 <div class="cell-output cell-output-display quarto-layout-cell-subref quarto-layout-cell" data-ref-parent="tbl-ref-3" style="flex-basis: 33.3%;justify-content: center;">
-<div id="tbl-ref-3-3" class="dataframe do-not-create-environment quarto-float quarto-figure quarto-figure-center anchored" data-border="1" data-quarto-postprocess="true">
+<div id="tbl-ref-3-3" class="dataframe do-not-create-environment quarto-float quarto-figure quarto-figure-center anchored" data-quarto-postprocess="true" data-border="1">
 <figure class="quarto-float quarto-subfloat-tbl figure">
 <figcaption class="quarto-float-caption-top quarto-subfloat-caption quarto-subfloat-tbl" id="tbl-ref-3-3-caption-0ceaefa1-69ba-4598-a22c-09a6ac19f8ca">
 (c)
@@ -823,7 +823,7 @@ Table&nbsp;3: Cross validation AUC-PR scores for different runs with equally dis
 </div>
 <p>When we apply our <code>InstanceHardnessCV</code> splitter to our data with 10 artificially created ‘hard to classify’ datapoints, we get the results as presented before.</p>
 <div class="cell" data-scrolled="true" data-tags="[]" data-execution_count="36">
-<div id="tbl-crossvalidation-fixed-instancehardnesscv" class="cell quarto-float quarto-figure quarto-figure-center anchored" data-tags="[]" data-execution_count="36" data-scrolled="true">
+<div id="tbl-crossvalidation-fixed-instancehardnesscv" class="cell quarto-float quarto-figure quarto-figure-center anchored" data-scrolled="true" data-execution_count="36" data-tags="[]">
 <figure class="quarto-float quarto-float-tbl figure">
 <figcaption class="quarto-float-caption-top quarto-float-caption quarto-float-tbl" id="tbl-crossvalidation-fixed-instancehardnesscv-caption-0ceaefa1-69ba-4598-a22c-09a6ac19f8ca">
 Table&nbsp;4: Cross validation AUC-PR scores for different runs with equally distributed ‘hard-to-classify’ samples using the InstanceHardnessCV splitter

diff --git a/docs/index.html b/docs/index.html
@@ -496,7 +496,7 @@ Classification for imbalanced data problems is hard; it requires paying attentio
 </a>
 </div>
 </div>
-<div class="quarto-post image-right" data-index="6" data-listing-file-modified-sort="1765722649268" data-listing-reading-time-sort="5" data-listing-word-count-sort="804">
+<div class="quarto-post image-right" data-index="6" data-listing-file-modified-sort="1776951934005" data-listing-reading-time-sort="5" data-listing-word-count-sort="841">
 <div class="thumbnail"><a href="./posts/load_balancing_spark.html" class="no-external">
 
 <p class="card-img-top"><img src="posts/balance_scale.png"  class="thumbnail-image card-img"/></p>
